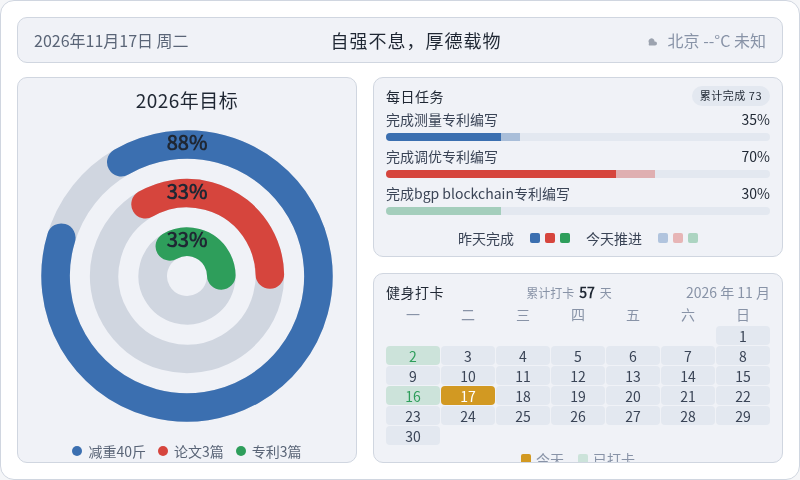
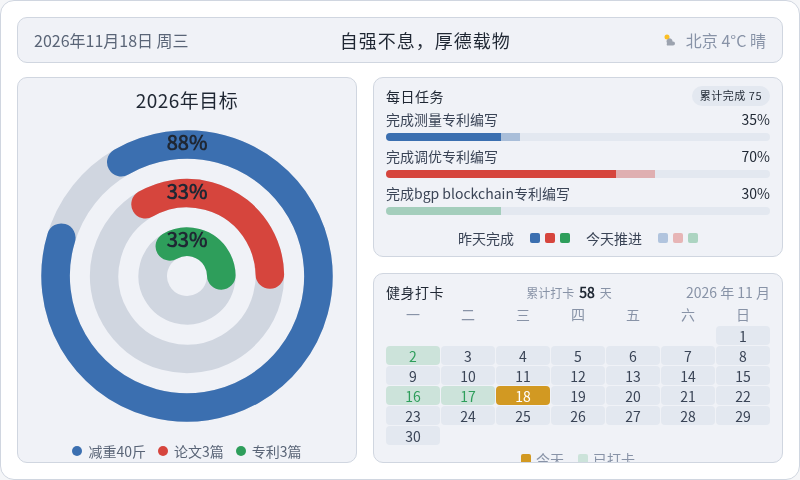
chore: 每日看板刷新 2026-11-18

diff --git a/output/dashboard/dashboard.html b/output/dashboard/dashboard.html
@@ -185,11 +185,11 @@
 <body>
   <div class="dash">
     <div class="topbar">
-      <div class="tb-date" id="tbDate">2026年11月17日 周二</div>
+      <div class="tb-date" id="tbDate">2026年11月18日 周三</div>
       <div class="tb-slogan">自强不息，厚德载物</div>
       <div class="tb-weather">
-        <svg width="16" height="16" viewBox="0 0 16 16" aria-hidden="true"><path d="M5 11 a3 3 0 1 1 5.5 -1.5 h0.5 a2 2 0 1 1 0 4 H5 a2.5 2.5 0 0 1 0 -2.5z" fill="#9ca3af"/></svg>
-        <span>北京 --°C 未知</span>
+        <svg width="16" height="16" viewBox="0 0 16 16" aria-hidden="true"><circle cx="5" cy="5" r="2.5" fill="#fbbf24"/><path d="M5 11 a3 3 0 1 1 5.5 -1.5 h0.5 a2 2 0 1 1 0 4 H5 a2.5 2.5 0 0 1 0 -2.5z" fill="#9ca3af"/></svg>
+        <span>北京 4°C 晴</span>
       </div>
     </div>
     <div class="content">
@@ -210,7 +210,7 @@
     </div>
     <div class="col-right">
       <div class="panel tasks-panel">
-        <div class="panel-title" style="color:#1f2733">每日任务<span class="task-done-count">累计完成  73</span></div>
+        <div class="panel-title" style="color:#1f2733">每日任务<span class="task-done-count">累计完成  75</span></div>
         <div class="task">
           <div class="task-head"><span style="color:#3a4456">完成测量专利编写</span><span class="task-val" style="color:#1f2733">35%</span></div>
           <div class="bar">
@@ -242,13 +242,13 @@
           <span class="panel-title" style="margin:0;color:#1f2733">健身打卡</span>
           <span class="cal-stats">
             <span class="cal-stats-label">累计打卡</span>
-            <span class="cal-stats-num" style="color:#1f2733">57</span>
+            <span class="cal-stats-num" style="color:#1f2733">58</span>
             <span class="cal-stats-label">天</span>
           </span>
           <span class="cal-date">2026 年 11 月</span>
         </div>
         <div class="cal-grid wk"><span>一</span><span>二</span><span>三</span><span>四</span><span>五</span><span>六</span><span>日</span></div>
-        <div class="cal-grid"><span class="cell empty"></span><span class="cell empty"></span><span class="cell empty"></span><span class="cell empty"></span><span class="cell empty"></span><span class="cell empty"></span><span class="cell" style="background:#e3e8f0;color:#3a4456">1</span><span class="cell done" style="background:rgba(46,158,91,0.18);color:#2e9e5b">2</span><span class="cell" style="background:#e3e8f0;color:#3a4456">3</span><span class="cell" style="background:#e3e8f0;color:#3a4456">4</span><span class="cell" style="background:#e3e8f0;color:#3a4456">5</span><span class="cell" style="background:#e3e8f0;color:#3a4456">6</span><span class="cell" style="background:#e3e8f0;color:#3a4456">7</span><span class="cell" style="background:#e3e8f0;color:#3a4456">8</span><span class="cell" style="background:#e3e8f0;color:#3a4456">9</span><span class="cell" style="background:#e3e8f0;color:#3a4456">10</span><span class="cell" style="background:#e3e8f0;color:#3a4456">11</span><span class="cell" style="background:#e3e8f0;color:#3a4456">12</span><span class="cell" style="background:#e3e8f0;color:#3a4456">13</span><span class="cell" style="background:#e3e8f0;color:#3a4456">14</span><span class="cell" style="background:#e3e8f0;color:#3a4456">15</span><span class="cell done" style="background:rgba(46,158,91,0.18);color:#2e9e5b">16</span><span class="cell today" style="background:#d29922;color:#ffffff">17</span><span class="cell" style="background:#e3e8f0;color:#3a4456">18</span><span class="cell" style="background:#e3e8f0;color:#3a4456">19</span><span class="cell" style="background:#e3e8f0;color:#3a4456">20</span><span class="cell" style="background:#e3e8f0;color:#3a4456">21</span><span class="cell" style="background:#e3e8f0;color:#3a4456">22</span><span class="cell" style="background:#e3e8f0;color:#3a4456">23</span><span class="cell" style="background:#e3e8f0;color:#3a4456">24</span><span class="cell" style="background:#e3e8f0;color:#3a4456">25</span><span class="cell" style="background:#e3e8f0;color:#3a4456">26</span><span class="cell" style="background:#e3e8f0;color:#3a4456">27</span><span class="cell" style="background:#e3e8f0;color:#3a4456">28</span><span class="cell" style="background:#e3e8f0;color:#3a4456">29</span><span class="cell" style="background:#e3e8f0;color:#3a4456">30</span></div>
+        <div class="cal-grid"><span class="cell empty"></span><span class="cell empty"></span><span class="cell empty"></span><span class="cell empty"></span><span class="cell empty"></span><span class="cell empty"></span><span class="cell" style="background:#e3e8f0;color:#3a4456">1</span><span class="cell done" style="background:rgba(46,158,91,0.18);color:#2e9e5b">2</span><span class="cell" style="background:#e3e8f0;color:#3a4456">3</span><span class="cell" style="background:#e3e8f0;color:#3a4456">4</span><span class="cell" style="background:#e3e8f0;color:#3a4456">5</span><span class="cell" style="background:#e3e8f0;color:#3a4456">6</span><span class="cell" style="background:#e3e8f0;color:#3a4456">7</span><span class="cell" style="background:#e3e8f0;color:#3a4456">8</span><span class="cell" style="background:#e3e8f0;color:#3a4456">9</span><span class="cell" style="background:#e3e8f0;color:#3a4456">10</span><span class="cell" style="background:#e3e8f0;color:#3a4456">11</span><span class="cell" style="background:#e3e8f0;color:#3a4456">12</span><span class="cell" style="background:#e3e8f0;color:#3a4456">13</span><span class="cell" style="background:#e3e8f0;color:#3a4456">14</span><span class="cell" style="background:#e3e8f0;color:#3a4456">15</span><span class="cell done" style="background:rgba(46,158,91,0.18);color:#2e9e5b">16</span><span class="cell done" style="background:rgba(46,158,91,0.18);color:#2e9e5b">17</span><span class="cell today" style="background:#d29922;color:#ffffff">18</span><span class="cell" style="background:#e3e8f0;color:#3a4456">19</span><span class="cell" style="background:#e3e8f0;color:#3a4456">20</span><span class="cell" style="background:#e3e8f0;color:#3a4456">21</span><span class="cell" style="background:#e3e8f0;color:#3a4456">22</span><span class="cell" style="background:#e3e8f0;color:#3a4456">23</span><span class="cell" style="background:#e3e8f0;color:#3a4456">24</span><span class="cell" style="background:#e3e8f0;color:#3a4456">25</span><span class="cell" style="background:#e3e8f0;color:#3a4456">26</span><span class="cell" style="background:#e3e8f0;color:#3a4456">27</span><span class="cell" style="background:#e3e8f0;color:#3a4456">28</span><span class="cell" style="background:#e3e8f0;color:#3a4456">29</span><span class="cell" style="background:#e3e8f0;color:#3a4456">30</span></div>
         <div class="cal-legend">
           <span style="color:#8893a7"><i class="sw" style="background:#d29922"></i>今天</span>
           <span style="color:#8893a7"><i class="sw" style="background:rgba(46,158,91,0.18)"></i>已打卡</span>
